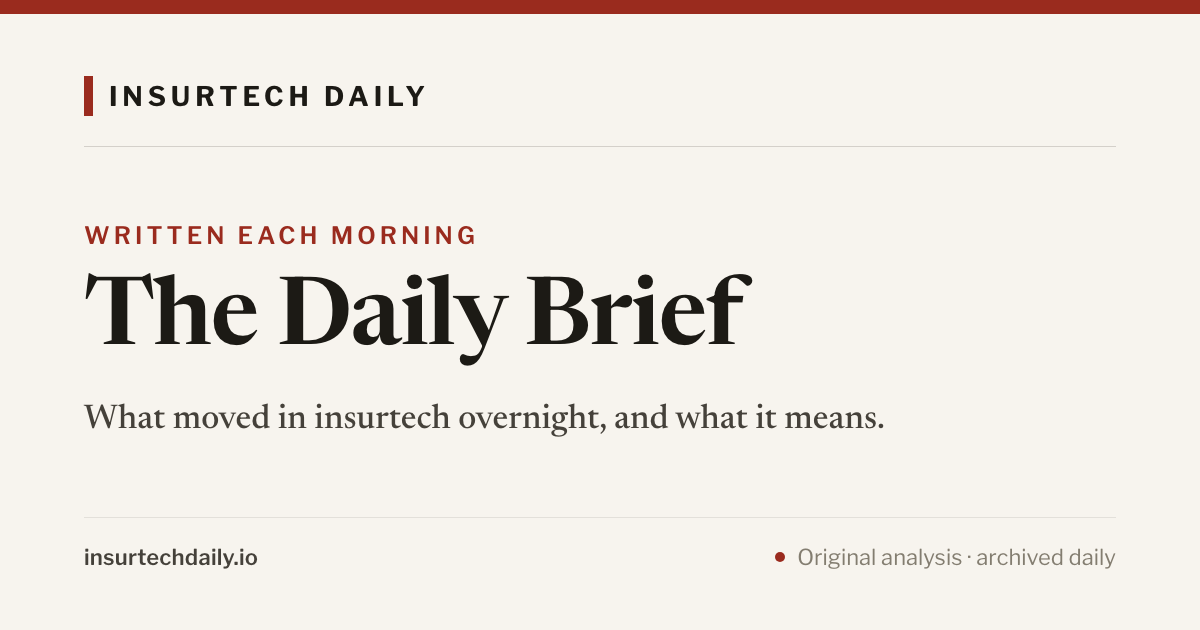
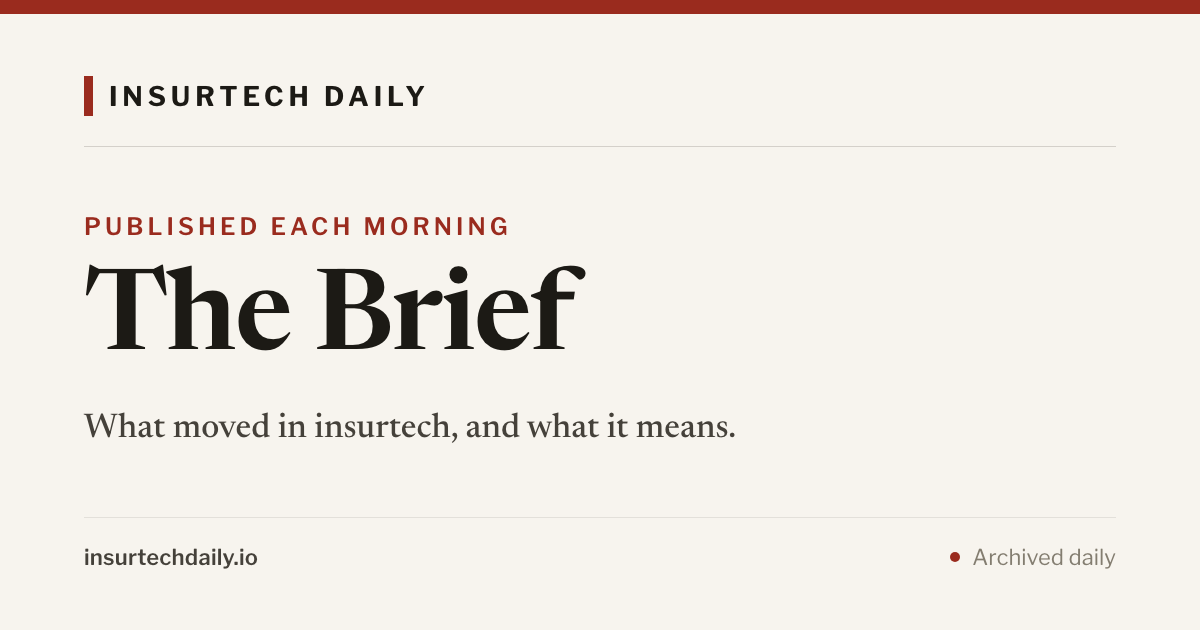
Call it The Brief on the share card, the way the site does
The card said "The Daily Brief" while every brief page's own h1 says
"The Brief" — the one place a reader met the section before clicking
was the one place it had a different name.

Also drops "overnight" from the standfirst (the brief covers the day,
not just the night before), makes the eyebrow "Published each morning"
rather than "Written", and cuts "Original analysis ·" from the footer
kicker — the card is the claim, it doesn't need to also assert it.

The alt text on /brief/ and the dated pages follows the same rename.
Nothing else re-renders: the other 19 cards are byte-identical, so the
diff stays where the change is.

diff --git a/brief/2026-07-25/index.html b/brief/2026-07-25/index.html
@@ -27,14 +27,14 @@
   <meta property="og:image:type" content="image/png" />
   <meta property="og:image:width" content="1200" />
   <meta property="og:image:height" content="630" />
-  <meta property="og:image:alt" content="The Daily Brief, Jul 25, 2026 — Insurtech Daily" />
+  <meta property="og:image:alt" content="The Brief, Jul 25, 2026 — Insurtech Daily" />
   <meta property="og:locale" content="en_US" />
 
   <meta name="twitter:card" content="summary_large_image" />
   <meta name="twitter:title" content="M&amp;A returns as AI keeps reshaping the back office — insurtech brief, Jul 25, 2026 | Insurtech Daily" />
   <meta name="twitter:description" content="A $1.5B deal anchors a quarter of AI, funding, and consolidation news" />
   <meta name="twitter:image" content="https://insurtechdaily.io/assets/og/brief.png" />
-  <meta name="twitter:image:alt" content="The Daily Brief, Jul 25, 2026 — Insurtech Daily" />
+  <meta name="twitter:image:alt" content="The Brief, Jul 25, 2026 — Insurtech Daily" />
 
   <link rel="preconnect" href="https://fonts.googleapis.com" />
   <link rel="preconnect" href="https://fonts.gstatic.com" crossorigin />

diff --git a/brief/2026-07-27/index.html b/brief/2026-07-27/index.html
@@ -27,14 +27,14 @@
   <meta property="og:image:type" content="image/png" />
   <meta property="og:image:width" content="1200" />
   <meta property="og:image:height" content="630" />
-  <meta property="og:image:alt" content="The Daily Brief, Jul 27, 2026 — Insurtech Daily" />
+  <meta property="og:image:alt" content="The Brief, Jul 27, 2026 — Insurtech Daily" />
   <meta property="og:locale" content="en_US" />
 
   <meta name="twitter:card" content="summary_large_image" />
   <meta name="twitter:title" content="AI tools multiply while capacity strains data centers — insurtech brief, Jul 27, 2026 | Insurtech Daily" />
   <meta name="twitter:description" content="AI reshapes underwriting as funding rebounds and capacity tightens" />
   <meta name="twitter:image" content="https://insurtechdaily.io/assets/og/brief.png" />
-  <meta name="twitter:image:alt" content="The Daily Brief, Jul 27, 2026 — Insurtech Daily" />
+  <meta name="twitter:image:alt" content="The Brief, Jul 27, 2026 — Insurtech Daily" />
 
   <link rel="preconnect" href="https://fonts.googleapis.com" />
   <link rel="preconnect" href="https://fonts.gstatic.com" crossorigin />

diff --git a/brief/2026-07-26/index.html b/brief/2026-07-26/index.html
@@ -27,14 +27,14 @@
   <meta property="og:image:type" content="image/png" />
   <meta property="og:image:width" content="1200" />
   <meta property="og:image:height" content="630" />
-  <meta property="og:image:alt" content="The Daily Brief, Jul 26, 2026 — Insurtech Daily" />
+  <meta property="og:image:alt" content="The Brief, Jul 26, 2026 — Insurtech Daily" />
   <meta property="og:locale" content="en_US" />
 
   <meta name="twitter:card" content="summary_large_image" />
   <meta name="twitter:title" content="Embedded deals and consolidation outpace fresh funding — insurtech brief, Jul 26, 2026 | Insurtech Daily" />
   <meta name="twitter:description" content="Partnerships and M&amp;A dominate while new funding stays scarce" />
   <meta name="twitter:image" content="https://insurtechdaily.io/assets/og/brief.png" />
-  <meta name="twitter:image:alt" content="The Daily Brief, Jul 26, 2026 — Insurtech Daily" />
+  <meta name="twitter:image:alt" content="The Brief, Jul 26, 2026 — Insurtech Daily" />
 
   <link rel="preconnect" href="https://fonts.googleapis.com" />
   <link rel="preconnect" href="https://fonts.gstatic.com" crossorigin />

diff --git a/brief/index.html b/brief/index.html
@@ -27,14 +27,14 @@
   <meta property="og:image:type" content="image/png" />
   <meta property="og:image:width" content="1200" />
   <meta property="og:image:height" content="630" />
-  <meta property="og:image:alt" content="The Daily Brief archive — Insurtech Daily" />
+  <meta property="og:image:alt" content="The Brief archive — Insurtech Daily" />
   <meta property="og:locale" content="en_US" />
 
   <meta name="twitter:card" content="summary_large_image" />
   <meta name="twitter:title" content="The Brief — daily insurtech briefings | Insurtech Daily" />
   <meta name="twitter:description" content="A daily read on what moved in insurtech — what's happening and why it matters, written from the headlines aggregated that day." />
   <meta name="twitter:image" content="https://insurtechdaily.io/assets/og/brief.png" />
-  <meta name="twitter:image:alt" content="The Daily Brief archive — Insurtech Daily" />
+  <meta name="twitter:image:alt" content="The Brief archive — Insurtech Daily" />
 
   <link rel="preconnect" href="https://fonts.googleapis.com" />
   <link rel="preconnect" href="https://fonts.gstatic.com" crossorigin />

diff --git a/scripts/seo.js b/scripts/seo.js
@@ -691,7 +691,7 @@ function briefPageHtml(b, newer, older) {
     canonical,
     ogType: "article",
     ogImage: cardFor("brief"),
-    imageAlt: `The Daily Brief, ${fullDate(b.date)} — ${SITE.name}`,
+    imageAlt: `The Brief, ${fullDate(b.date)} — ${SITE.name}`,
     jsonld: [articleLd, crumbLd],
   })}
 <body>
@@ -786,7 +786,7 @@ ${briefs
     description,
     canonical,
     ogImage: cardFor("brief"),
-    imageAlt: `The Daily Brief archive — ${SITE.name}`,
+    imageAlt: `The Brief archive — ${SITE.name}`,
     jsonld: [collectionLd, crumbLd],
   })}
 <body>

diff --git a/scripts/og.js b/scripts/og.js
@@ -85,10 +85,10 @@ const BASE_CARDS = [
   },
   {
     id: "brief",
-    eyebrow: "Written each morning",
-    title: "The Daily Brief",
-    sub: "What moved in insurtech overnight, and what it means.",
-    kicker: "Original analysis · archived daily",
+    eyebrow: "Published each morning",
+    title: "The Brief",
+    sub: "What moved in insurtech, and what it means.",
+    kicker: "Archived daily",
   },
   {
     id: "funding",
